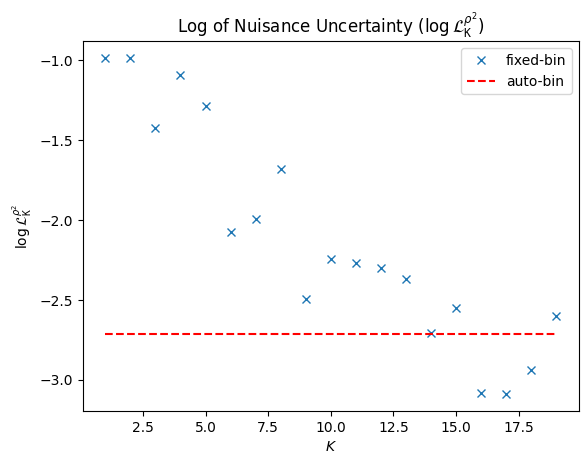
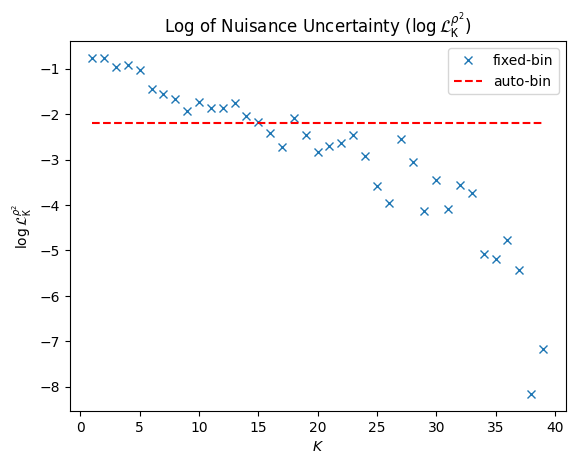
real dataset example v.1, ready

diff --git a/examples/real_dataset_3.py b/examples/real_dataset_3.py
@@ -9,15 +9,12 @@ import copy
 import feature_effect as fe
 import matplotlib.pyplot as plt
 from sklearn.preprocessing import Normalizer
+from sklearn.model_selection import train_test_split
 
 def create_nn(X):
     nn = keras.Sequential([keras.layers.Input(shape=[X.shape[1]]),
-                           # keras.layers.Dense(512, activation='relu', use_bias=True),
-                           # keras.layers.Dense(256, activation='relu', use_bias=True),
-
-                           # keras.layers.Dense(256, activation='relu', use_bias=True),
-
-                           keras.layers.Dense(256, activation='relu', use_bias=True),                              keras.layers.Dense(128, activation='relu', use_bias=True),
+                           keras.layers.Dense(256, activation='relu', use_bias=True),
+                           keras.layers.Dense(128, activation='relu', use_bias=True),
                            keras.layers.Dense(32, activation='relu', use_bias=True),
                            keras.layers.Dense(1, use_bias=True)])
 
@@ -78,6 +75,15 @@ def load_prepare_data(path):
     return X_df, Y_df, X, Y
 
 def preprocess_data(X, Y):
+    # remove points 3 std away from the mean
+    tmp_mean = X.mean(0)
+    tmp_std = X.std(0)
+    tmp = (X - tmp_mean) / tmp_std
+    ind = np.sum(np.abs(tmp) > 3, axis=1) == 0
+    X = X[ind,:]
+    Y = Y[ind]
+
+    # normalize
     X_mu = X.mean(0)
     X_sigma = X.std(0)
     X_norm = (X-X_mu)/X_sigma
@@ -87,6 +93,9 @@ def preprocess_data(X, Y):
     Y_norm = (Y-Y_mu)/Y_sigma
     return X_norm, Y_norm, X_mu, X_sigma, Y_mu, Y_sigma
 
+def split(X_norm, Y_norm):
+   X_tr, X_te, Y_tr, Y_te =  train_test_split(X_norm, Y_norm, test_size=.2)
+   return X_tr, X_te, Y_tr, Y_te
 
 def find_axislimits(X):
     axis_limits = np.array([np.min(X, 0), np.max(X, 0)])
@@ -108,7 +117,6 @@ tf.random.set_seed(12384)
 folder_name = "real_dataset_3"
 savefig = True
 
-
 # load-prepare data
 parent_path = os.path.dirname(os.path.dirname(path))
 datapath = os.path.join(parent_path, "data", "California-Housing", "housing.csv")
@@ -118,37 +126,48 @@ X_df, Y_df, X, Y = load_prepare_data(datapath)
 X_norm, Y_norm, X_mu, X_sigma, Y_mu, Y_sigma = preprocess_data(X, Y)
 axis_limits = find_axislimits(X_norm)
 
-# train nn
-nn = create_nn(X_norm)
-nn.fit(X_norm, Y_norm, epochs=10)
+X_tr, X_te, Y_tr, Y_te = split(X_norm, Y_norm)
+
+# Train
+nn = create_nn(X_tr)
+nn.fit(X_tr, Y_tr, epochs=15)
+
+# Eval
+results = nn.evaluate(X_te, Y_te)
 
 # freeze model
 model = create_model(nn)
 model_grad = create_model_grad(nn)
 dfdx = model_grad(X_norm)
 
+
+stats_fixed_list = []
+stats_auto_list = []
+
+
 # fit feature
 for s in range(8):
-    dale = fe.DALE(X_norm, model, model_grad, axis_limits)
+    print("Feature " + str(s))
+    dale = fe.DALE(X_tr, model, model_grad, axis_limits)
     alg_params = {"bin_method" : "dp",
-                  "max_nof_bins" : 50,
+                  "max_nof_bins" : 20,
                   "min_points_per_bin": 30}
     dale.fit(features=s, alg_params=alg_params)
     dale.plot(s=s)
 
 
-    dale_gt = fe.DALE(X_norm, model, model_grad, axis_limits)
+    dale_gt = fe.DALE(X_tr, model, model_grad, axis_limits)
     alg_params = {"bin_method" : "fixed",
-                  "nof_bins" : 60,
+                  "nof_bins" : 80,
                   "min_points_per_bin": 30}
     dale_gt.fit(features=s, alg_params=alg_params)
     dale_gt.plot(s)
 
 
     # get statistics
-    K_list = list(range(1,20))
+    K_list = list(range(1,40))
     stats_fixed = utils.measure_fixed_error_real_dataset(dale_gt,
-                                                         X_norm,
+                                                         X_tr,
                                                          model,
                                                          model_grad,
                                                          axis_limits,
@@ -156,15 +175,16 @@ for s in range(8):
                                                          nof_iterations=10,
                                                          nof_points=1000,
                                                          feature=s)
-
+    stats_fixed_list.append(stats_fixed)
     stats_auto = utils.measure_auto_error_real_dataset(dale_gt,
-                                                       X_norm,
+                                                       X_tr,
                                                        model,
                                                        model_grad,
                                                        axis_limits,
                                                        nof_iterations=10,
-                                                       nof_points=2500,
+                                                       nof_points=1000,
                                                        feature=s)
+    stats_auto_list.append(stats_auto)
 
     # plots
     path2dir = os.path.join(path, folder_name)
@@ -173,7 +193,7 @@ for s in range(8):
                              stats_fixed["mu_err_mean"],
                              stats_fixed["mu_err_std"],
                              stats_auto["mu_err_mean"],
-                             stats_auto["mu_err_mean"],
+                             stats_auto["mu_err_std"],
                              "mu",
                              savefig=savepath)
 
@@ -182,7 +202,7 @@ for s in range(8):
                              stats_fixed["var_err_mean"],
                              stats_fixed["var_err_std"],
                              stats_auto["var_err_mean"],
-                             stats_auto["var_err_mean"],
+                             stats_auto["var_err_std"],
                              "var",
                              savefig=savepath)
 
@@ -191,6 +211,30 @@ for s in range(8):
                              stats_fixed["rho_mean"],
                              stats_fixed["rho_std"],
                              stats_auto["rho_mean"],
-                             stats_auto["rho_mean"],
+                             stats_auto["rho_std"],
                              "rho",
                              savefig=savepath)
+
+
+for s in range(8):
+    ind = np.random.choice(X_tr.shape[0], size=200, replace=False)
+    pdp_ice = fe.PDPwithICE(X_tr[ind], model, axis_limits)
+    savepath = os.path.join(path2dir, "feature_" + str(s) +  "_pdp_ice.png") if savefig else None
+    pdp_ice.plot(s=s, normalized=False, nof_points=100, savefig=savepath)
+
+    dale = fe.DALE(X_tr, model, model_grad, axis_limits)
+    alg_params = {"bin_method" : "dp",
+                  "max_nof_bins" : 20,
+                  "min_points_per_bin": 30}
+    dale.fit(features=s, alg_params=alg_params)
+    savepath = os.path.join(path2dir, "feature_" + str(s) +  "_ale_auto.png") if savefig else None
+    dale.plot(s=s, savefig=savepath)
+
+    dale_gt = fe.DALE(X_tr, model, model_grad, axis_limits)
+    alg_params = {"bin_method" : "fixed",
+                  "nof_bins" : 80,
+                  "min_points_per_bin": 30}
+
+    dale_gt.fit(features=s, alg_params=alg_params)
+    savepath = os.path.join(path2dir, "feature_" + str(s) +  "_ale_fixed.png") if savefig else None
+    dale_gt.plot(s, savefig=savepath)

diff --git a/examples/utils.py b/examples/utils.py
@@ -222,7 +222,7 @@ def measure_auto_error_real_dataset(dale_gt,
                        model=model,
                        model_jac=model_grad,
                        axis_limits=axis_limits)
-        alg_params = {"bin_method" : "dp", "max_nof_bins" : 20, "min_points_per_bin": 10}
+        alg_params = {"bin_method" : "dp", "max_nof_bins" : 20, "min_points_per_bin": 30}
         dale.fit(features=[feature], alg_params=alg_params)
         res_err, mu_err, var_err = compare(dale_gt.feature_effect["feature_" + str(feature)],
                                            dale.feature_effect["feature_" + str(feature)])
@@ -259,6 +259,7 @@ def plot_fixed_vs_auto(K_list, fixed_mean, fixed_std, auto_mean, auto_std, metri
              np.log(np.repeat(auto_mean, len(K_list))),
              "r--",
              label="auto-bin")
+
     plt.xlabel("$K$")
 
     plt.legend()
